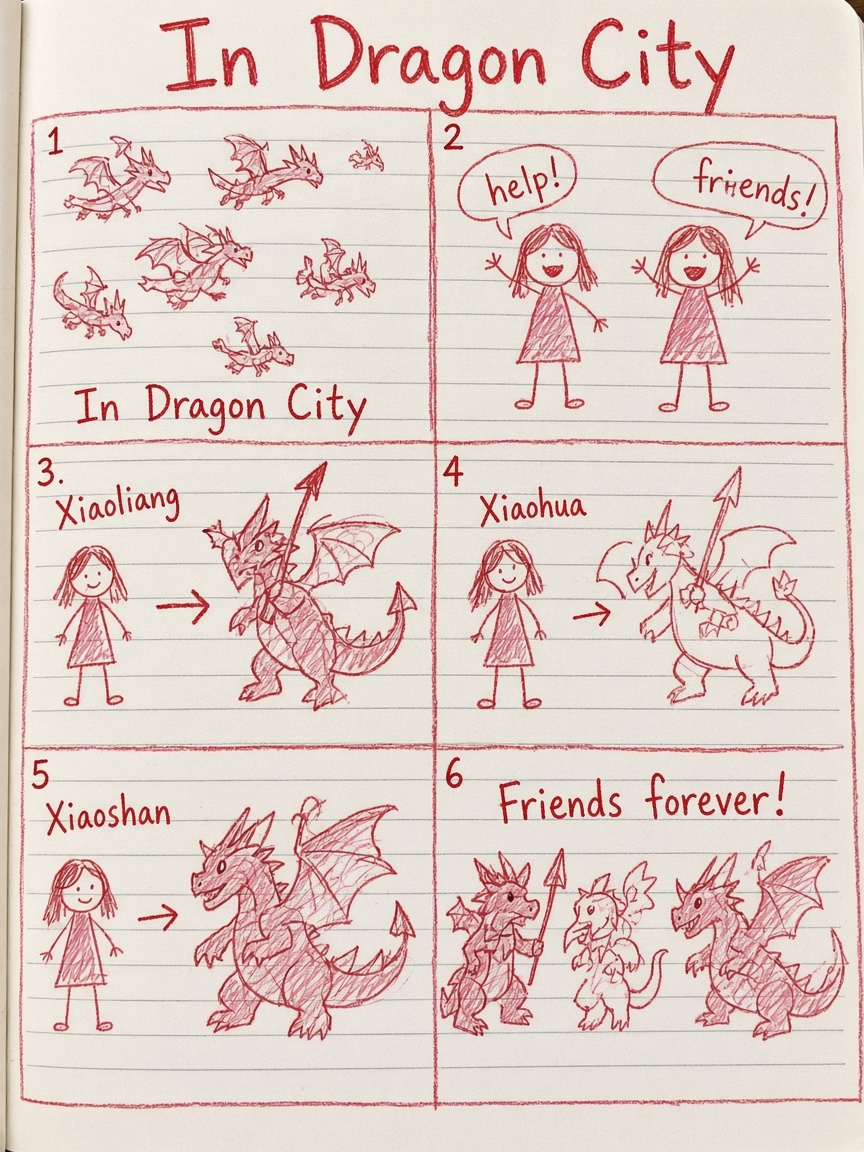
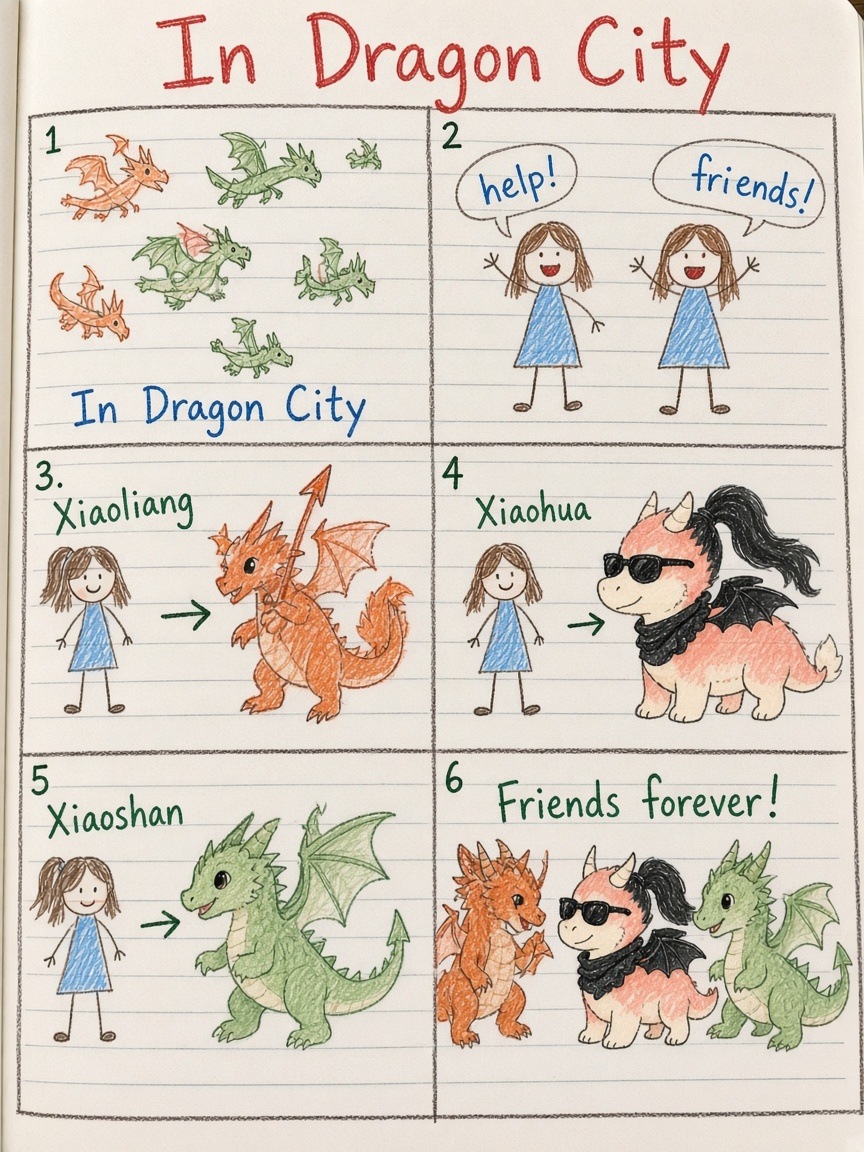
Dragon City: Soft Next five-page tip pack (Soft PASS) (#46)
Expand dragon-city converted pages from one to five Soft PASS pages with
captions, copy tipped PNGs into 07_comics/converted/, and bump app.js cache to v=65.

diff --git a/app.js b/app.js
@@ -88,7 +88,13 @@ const BOOKS = [
     blurb: "Dragons and transformations",
     shelfCover: "07_comics/converted/dragon-city-1.png",
     original: imgs([970, 971, 972, 973, 974, 975, 976, 977, 1008, 1010]),
-    converted: [conv("dragon-city-1.png", "In Dragon City")],
+    converted: [
+      conv("dragon-city-1.png", "In Dragon City"),
+      conv("dragon-city-2.png", "Help! Friends!"),
+      conv("dragon-city-3.png", "Morning in Dragon City"),
+      conv("dragon-city-4.png", "Sky · Earth · Sea"),
+      conv("dragon-city-5.png", "Friends forever"),
+    ],
   },
   {
     id: "next-door",

diff --git a/index.html b/index.html
@@ -117,7 +117,7 @@
     </div>
   </main>
 
-  <script src="app.js?v=64"></script>
+  <script src="app.js?v=65"></script>
   <script>
     (function () {
       var frame = document.getElementById("demo-iframe");
